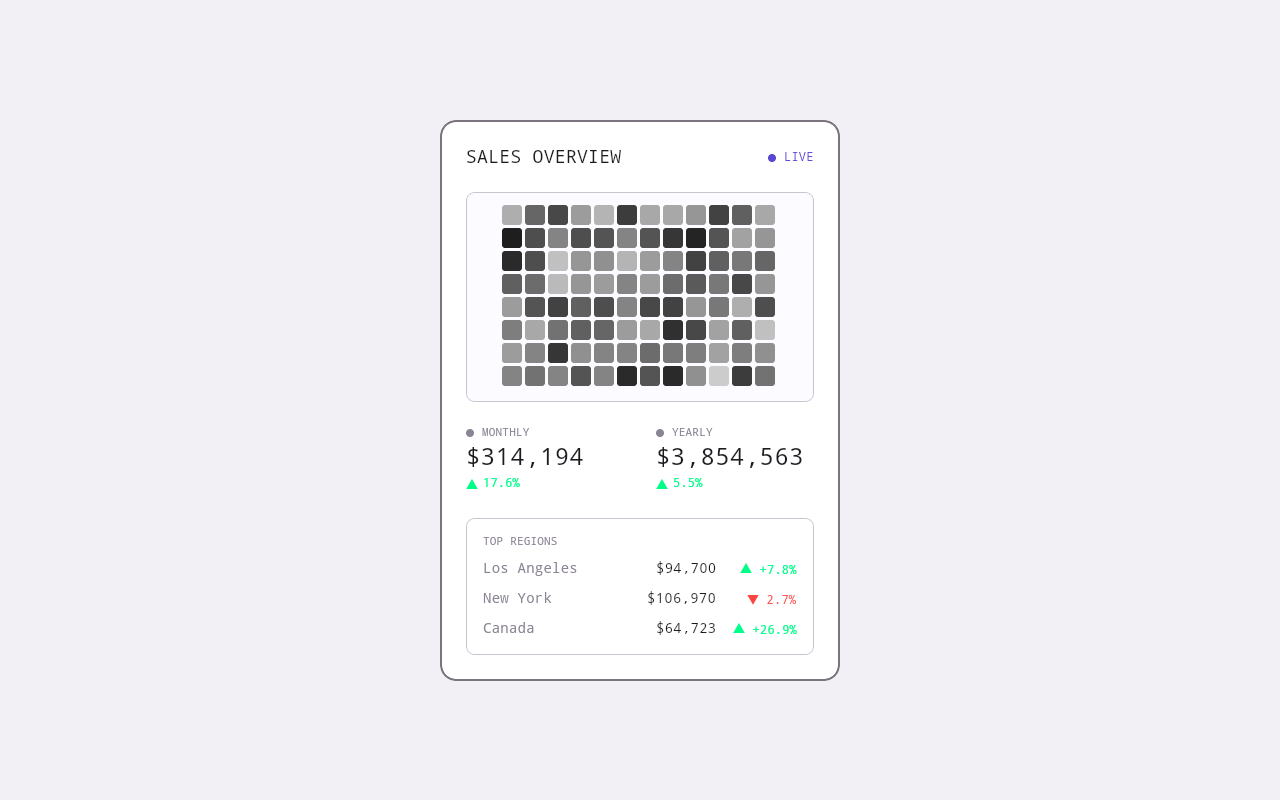
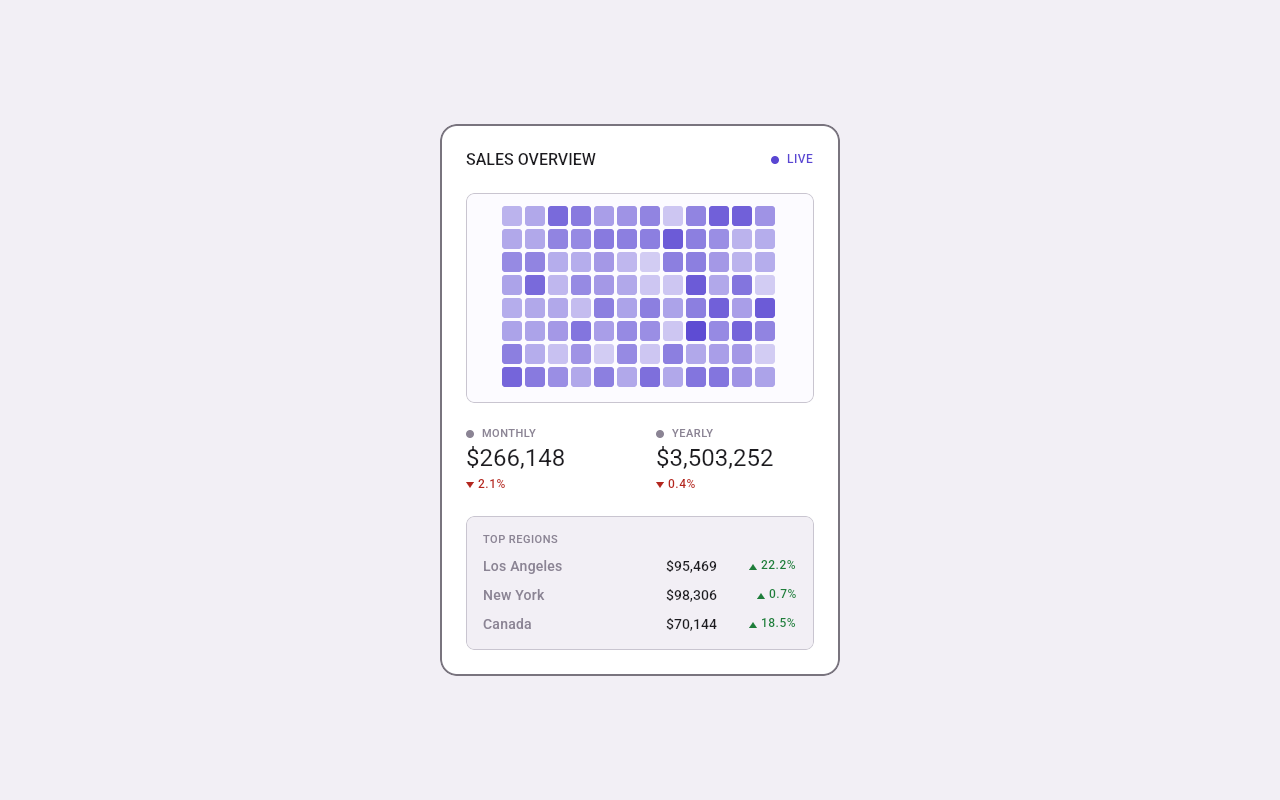
docs: describe the theme-driven widget and retake the screenshots
Claude-Session: https://claude.ai/code/session_018xTsJQBTiLfieqJekJ23K3

diff --git a/README.md b/README.md
@@ -9,10 +9,13 @@ seconds, and the card shows it: an activity heatmap, the monthly and yearly tota
 
 - **The card:** a 12 by 8 heatmap, monthly and yearly totals with their change, and the top regions (Los Angeles, New
   York, Canada), with a blinking LIVE indicator.
-- **Easing:** the figures ease toward each new snapshot and the easing timer stops once they settle. Changes are green
-  when up and red when down.
-- **The heatmap:** plain XAML rectangles on a 32-step grey palette. Cells drift toward random targets, and a cell's
-  brush changes only when its colour step does.
+- **Easing:** the figures ease toward each new snapshot and the easing timer stops once they settle. A rise shows in the
+  app's positive colour and a fall in the theme's Error colour, each with a drawn arrow.
+- **The heatmap:** plain XAML rectangles in the theme's Primary colour; a cell's heat is its opacity, in 32 steps. Cells
+  drift toward random targets, and a cell changes only when its step does.
+- **The theme does the look:** every colour is a palette role or the one no-role colour in `App.xaml` (`PositiveColor`),
+  text uses the Material type styles, and spacing and corners are Uno.Themes tokens. Change the palette (or edit it in
+  Studio's Themes tab) and the whole card follows, in Light and Dark.
 - **Phone fit:** the card lays out at 400 wide and scales down on a narrower screen.
 
 The data is simulated in the model; nothing leaves the device.
@@ -23,7 +26,8 @@ The data is simulated in the model; nothing leaves the device.
 - **MVUX:** `MainModel` exposes `IFeed<SalesSnapshot>` from an async enumerable, and `MainPage` shows it in a
   `FeedView` with a loading state.
 - **Navigation Extensions:** the shell and its default `Main` route, with the Toolkit's extended splash screen.
-- **Material** with the default Uno colour override, and the **Toolkit**.
+- **Material** through `MaterialToolkitTheme`, with the palette in `Styles/ColorPaletteOverride.json` (generated to
+  `.xaml`, referenced from the theme's `Colors`), and the **Toolkit**.
 
 ## Try it
 
